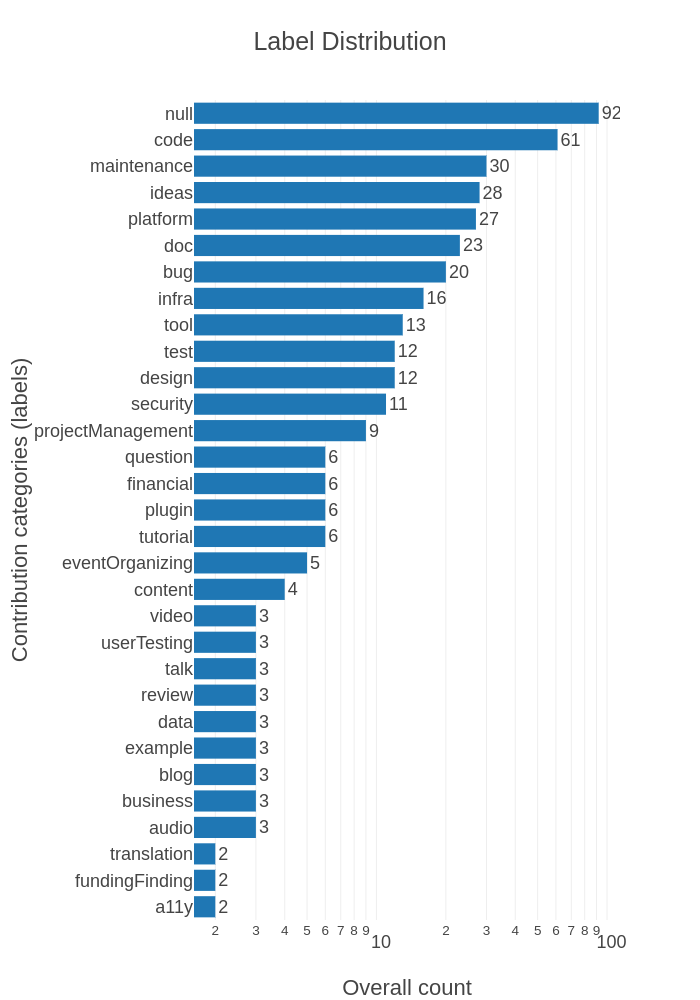
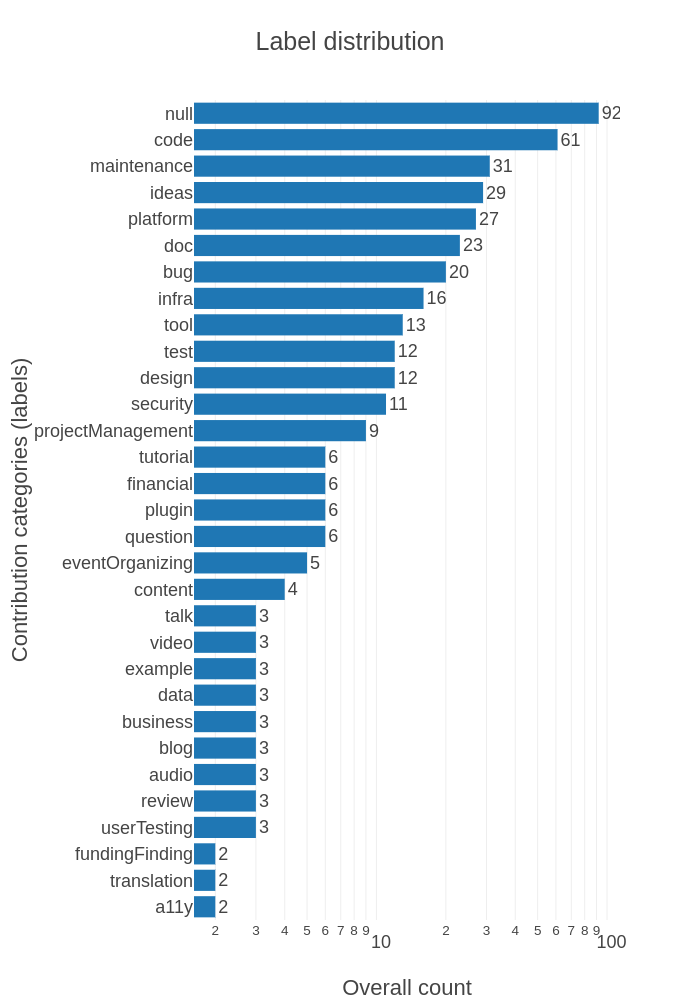
feat: update of the 1st plot

diff --git a/public/plot.js b/public/plot.js
@@ -1,15 +1,15 @@
 /* eslint-disable no-console */
 /* global Plotly */
-import {loadData, orderEntriesByValues, perc, chunk} from './utils.js'
+import {loadData, orderEntriesByValues, perc, chunk, groupBy} from './utils.js'
 
 const labelDistributionPlot = data => {
-  const orderedData = orderEntriesByValues(data, [
-    'overall',
-    'train',
-    'test',
-    'validation',
+  const groups = groupBy(data, 'category')
+  const orderedData = Object.entries(groups).map(entry => [
+    entry[0],
+    entry[1].length,
   ])
-  const xVals = orderedData.map(entry => entry[1].overall)
+  orderedData.sort((a, b) => a[1] - b[1])
+  const xVals = orderedData.map(entry => entry[1])
   const categoryDistPlot = {
     y: orderedData.map(entry => entry[0]),
     x: xVals,
@@ -37,7 +37,7 @@ const labelDistributionPlot = data => {
       type: 'log',
       automargin: true,
       tick0: 0,
-      dtick: Math.log10(1), //log10(e**1), 0.30102999566
+      dtick: Math.log10(1), //log10(2)
     },
   }
 
@@ -104,7 +104,6 @@ const facettedPartitionPlot = data => {
     ['overall', 'train', 'test', 'validation'],
     ['desc', 'desc', 'desc', 'desc'],
   )
-  console.log('orderd', orderedData)
   const chunks = chunk(orderedData, 9)
   const parentPlot = document.getElementById('plot2')
 
@@ -261,10 +260,10 @@ const testedCategories = data => {
 }
 
 const build = async () => {
-  const [data] = await loadData()
+  const [data, categoryPartitions] = await loadData()
   console.log(data)
-  const entries = Object.entries(data)
-  labelDistributionPlot(entries)
+  const entries = Object.entries(categoryPartitions)
+  labelDistributionPlot(data)
   tvtPartitionsPlot(entries)
   facettedPartitionPlot(entries)
   trainedCategories(entries)

diff --git a/public/utils.js b/public/utils.js
@@ -3,7 +3,7 @@ const loadData = async () => {
   try {
     const data = await Promise.all([
       // fetch('../src/categories.json').then(res => res.json(), console.error),
-      // fetch('../src/labels.json').then(res => res.json(), console.error),
+      fetch('../src/labels.json').then(res => res.json(), console.error),
       fetch('../playground/categoryPartitions.json').then(
         res => res.json(),
         console.error,
@@ -53,4 +53,12 @@ const chunk = (arr, size) =>
     arr.slice(i * size, i * size + size),
   )
 
-export {loadData, orderBy, orderEntriesByValues, perc, chunk}
+const groupBy = (arr, fn) =>
+  arr
+    .map(typeof fn === 'function' ? fn : val => val[fn])
+    .reduce((acc, val, i) => {
+      acc[val] = (acc[val] || []).concat(arr[i])
+      return acc
+    }, {})
+
+export {loadData, orderBy, orderEntriesByValues, perc, chunk, groupBy}
